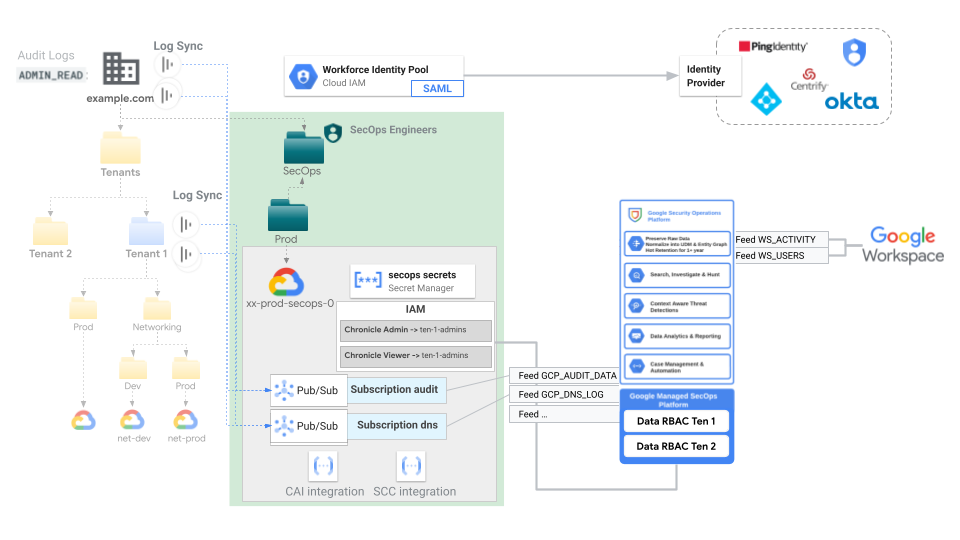
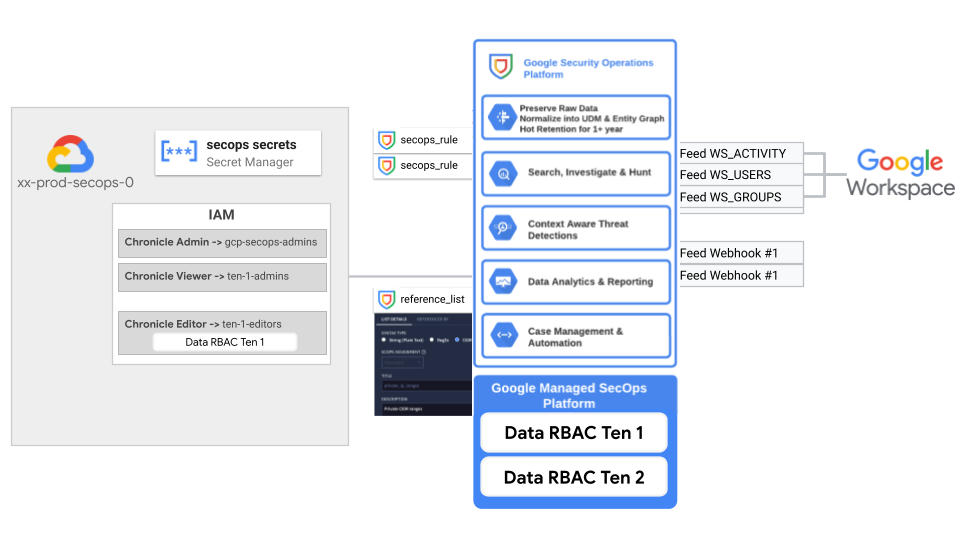
stage 3 improvements

diff --git a/fast/stages/3-secops-dev/README.md b/fast/stages/3-secops-dev/README.md
@@ -1,24 +1,24 @@
 # SecOps Stage
 
-This stage allows creation and management of a fleet of GKE multitenant clusters for a single environment, optionally leveraging GKE Hub to configure additional features.
+This stage allows automated configuration of SecOps instance at both infrastructure and application level.
 
-The following diagram illustrates the high-level design of secops tenant configuration in both GCP and SecOps instance, which can be adapted to specific requirements via variables.
+The following diagram illustrates the high-level design of SecOps instance configuration in both GCP and SecOps instance, which can be adapted to specific requirements via variables.
 
 <p align="center">
-  <img src="diagram.png" alt="GKE multitenant">
+  <img src="diagram.png" alt="SecOPs stage">
 </p>
 
 <!-- BEGIN TOC -->
 - [Design overview and choices](#design-overview-and-choices)
 - [How to run this stage](#how-to-run-this-stage)
-  - [Resource management configuration](#resource-management-configuration)
   - [Provider and Terraform variables](#provider-and-terraform-variables)
   - [Impersonating the automation service account](#impersonating-the-automation-service-account)
   - [Variable configuration](#variable-configuration)
   - [Running the stage](#running-the-stage)
 - [Customizations](#customizations)
-  - [Clusters and node pools](#clusters-and-node-pools)
-  - [Fleet management](#fleet-management)
+  - [Data RBAC](#data-rbac)
+  - [SecOps rules and reference list management](#secops-rules-and-reference-list-management)
+  - [Google Workspace integration](#google-workspace-integration)
 - [Files](#files)
 - [Variables](#variables)
 - [Outputs](#outputs)
@@ -26,35 +26,20 @@ The following diagram illustrates the high-level design of secops tenant configu
 
 ## Design overview and choices
 
-The general idea behind this stage is to deploy a single project hosting multiple clusters leveraging several useful GKE features like Config Sync, which lend themselves well to a multitenant approach to GKE.
+The general idea behind this stage is to configure a single SecOps instance for a specific environment with configurations both on SecOps leveraging terraform resources (where available) and `restful_resource` for interacting with the new [SecOps APIs](https://cloud.google.com/chronicle/docs/reference/rest).
 
-Some high level choices applied here:
+Some high level features of the current version of the stage are:
 
-- all clusters are created as [private clusters](https://cloud.google.com/kubernetes-engine/docs/how-to/private-clusters) which then need to be [VPC-native](https://cloud.google.com/kubernetes-engine/docs/concepts/alias-ips).
-- Logging and monitoring uses Cloud Operations for system components and user workloads.
-- [GKE metering](https://cloud.google.com/kubernetes-engine/docs/how-to/cluster-usage-metering) is enabled by default and stored in a BigQuery dataset created within the project.
-- [GKE Fleet](https://cloud.google.com/kubernetes-engine/docs/fleets-overview) can be optionally with support for the following features:
-  - [Fleet workload identity](https://cloud.google.com/anthos/fleet-management/docs/use-workload-identity)
-  - [Config Management](https://cloud.google.com/anthos-config-management/docs/overview)
-  - [Service Mesh](https://cloud.google.com/service-mesh/docs/overview)
-  - [Identity Service](https://cloud.google.com/anthos/identity/setup/fleet)
-  - [Multi-cluster services](https://cloud.google.com/kubernetes-engine/docs/concepts/multi-cluster-services)
-  - [Multi-cluster ingress](https://cloud.google.com/kubernetes-engine/docs/concepts/multi-cluster-ingress).
-- Support for [Config Sync](https://cloud.google.com/anthos-config-management/docs/config-sync-overview) and [Hierarchy Controller](https://cloud.google.com/anthos-config-management/docs/concepts/hierarchy-controller) when using Config Management.
-- [Groups for GKE](https://cloud.google.com/kubernetes-engine/docs/how-to/google-groups-rbac) can be enabled to facilitate the creation of flexible RBAC policies referencing group principals.
-- Support for [application layer secret encryption](https://cloud.google.com/kubernetes-engine/docs/how-to/encrypting-secrets).
-- Some features are enabled by default in all clusters:
-  - [Intranode visibility](https://cloud.google.com/kubernetes-engine/docs/how-to/intranode-visibility)
-  - [Dataplane v2](https://cloud.google.com/kubernetes-engine/docs/concepts/dataplane-v2)
-  - [Shielded GKE nodes](https://cloud.google.com/kubernetes-engine/docs/how-to/shielded-gke-nodes)
-  - [Workload identity](https://cloud.google.com/kubernetes-engine/docs/how-to/workload-identity)
-  - [Node local DNS cache](https://cloud.google.com/kubernetes-engine/docs/how-to/nodelocal-dns-cache)
-  - [Use of the GCE persistent disk CSI driver](https://cloud.google.com/kubernetes-engine/docs/how-to/persistent-volumes/gce-pd-csi-driver)
-  - Node [auto-upgrade](https://cloud.google.com/kubernetes-engine/docs/how-to/node-auto-upgrades) and [auto-repair](https://cloud.google.com/kubernetes-engine/docs/how-to/node-auto-repair) for all node pools
+- API/Services enablement
+- Data RBAC configuration with labels and scopes
+- IAM setup for the SecOps instance based on groups from Cloud Identity or WIF (with supports for Data RBAC)
+- Detection Rules and reference lists management via terraform (leveraging [secops-rules](../../../modules/secops-rules) module)
+- API Key setup for Webhook feeds 
+- Integration with Workspace for alerts and logs ingestion via SecOps Feeds
 
 ## How to run this stage
 
-This stage is meant to be executed after the FAST "foundational" stages: bootstrap, resource management, security and networking stages.
+This stage is meant to be executed after the FAST "foundational" stages: bootstrap, resource management, secops stages.
 
 It's of course possible to run this stage in isolation, refer to the *[Running in isolation](#running-in-isolation)* section below for details.
 
@@ -64,38 +49,19 @@ Before running this stage, you need to make sure you have the correct credential
 
 Some configuration changes are needed in resource management before this stage can be run.
 
-First, define a parent folder for each stage environment folder in the `data/top-level-folder` folder [in the resource management stage](../1-resman/data/top-level-folders/). As an example, this YAML definition creates a `GKE` folder under the organization:
+Make sure the stage 3 is enabled in the `data/stage-3` folder [in the resource management stage](../1-resman/data/stage-3/). As an example, this YAML definition saved as `secops-dev.yaml` enables this stage 3 for the development environment:
 
 ```yaml
-# yaml-language-server: $schema=../../schemas/top-level-folder.schema.json
+# yaml-language-server: $schema=../../schemas/fast-stage3.schema.json
 
-name: GKE
-
-# IAM bindings and organization policies can also be defined here
+short_name: secops
+environment: dev
+folder_config:
+  name: Development
+  parent_id: secops
 ```
 
-Then, edit the definition of the networking stage 2 in the `data/stage2` folder [in the resource management stage](../1-resman/data/stage-2/) to include the IAM configuration for GKE. The following are example snippets for GKE dev, make sure they match the `short_name` and `environment` configured above.
-
-In `folder_config.iam_bindings_additive` add:
-
-```yaml
-# folder_config:
-  # iam_bindings_additive:
-    gke_dns_admin:
-      role: roles/dns.admin
-      member: gke-dev-ro
-      condition:
-        title: GKE dev DNS admin.
-        expression: |
-          resource.matchTag('${organization.id}/${tag_names.environment}', 'development')
-    gke_dns_reader:
-      role: roles/dns.reader
-      member: gke-dev-ro
-      condition:
-        title: GKE dev DNS reader.
-        expression: |
-          resource.matchTag('${organization.id}/${tag_names.environment}', 'development')
-```
+Make sure the stage 3 definitions are aligned with the environments you would like to setup for SecOps and coherent with the environments definitions in the stage 2 [2-secops](../2-secops) in order to have a dedicated stage 3 for SecOps for each environment (dev and prod as an example).
 
 ### Provider and Terraform variables
 
@@ -109,16 +75,16 @@ The commands to link or copy the provider and terraform variable files can be ea
 # File linking commands for GKE (dev) stage
 
 # provider file
-ln -s ~/fast-config/providers/3-gke-dev-providers.tf ./
+ln -s ~/fast-config/providers/3-secops-dev-providers.tf ./
 
 # input files from other stages
 ln -s ~/fast-config/tfvars/0-globals.auto.tfvars.json ./
 ln -s ~/fast-config/tfvars/0-bootstrap.auto.tfvars.json ./
 ln -s ~/fast-config/tfvars/1-resman.auto.tfvars.json ./
-ln -s ~/fast-config/tfvars/2-networking.auto.tfvars.json ./
+ln -s ~/fast-config/tfvars/2-secops.auto.tfvars.json ./
 
 # conventional place for stage tfvars (manually created)
-ln -s ~/fast-config/3-gke-dev.auto.tfvars ./
+ln -s ~/fast-config/3-secops-dev.auto.tfvars ./
 ```
 
 ```bash
@@ -127,16 +93,16 @@ ln -s ~/fast-config/3-gke-dev.auto.tfvars ./
 # File linking commands for GKE (dev) stage
 
 # provider file
-gcloud storage cp gs://xxx-prod-iac-core-outputs-0/providers/3-gke-dev-providers.tf ./
+gcloud storage cp gs://xxx-prod-iac-core-outputs-0/providers/3-secops-dev-providers.tf ./
 
 # input files from other stages
 gcloud storage cp gs://xxx-prod-iac-core-outputs-0/tfvars/0-globals.auto.tfvars.json ./
 gcloud storage cp gs://xxx-prod-iac-core-outputs-0/tfvars/0-bootstrap.auto.tfvars.json ./
 gcloud storage cp gs://xxx-prod-iac-core-outputs-0/tfvars/1-resman.auto.tfvars.json ./
-gcloud storage cp gs://xxx-prod-iac-core-outputs-0/tfvars/2-networking.auto.tfvars.json ./
+gcloud storage cp gs://xxx-prod-iac-core-outputs-0/tfvars/2-secops.auto.tfvars.json ./
 
 # conventional place for stage tfvars (manually created)
-gcloud storage cp gs://xxx-prod-iac-core-outputs-0/3-gke-dev.auto.tfvars ./
+gcloud storage cp gs://xxx-prod-iac-core-outputs-0/3-secops-dev.auto.tfvars ./
 ```
 
 ### Impersonating the automation service account
@@ -164,52 +130,72 @@ terraform apply
 
 ## Customizations
 
-This stage is designed with multi-tenancy in mind, and the expectation is that  GKE clusters will mostly share a common set of defaults. Variables allow management of clusters, nodepools, and fleet registration and configurations.
+This stage is designed with few basic integrations provided out of the box which can be customized as per the following sections.
 
-### Clusters and node pools
+### Data RBAC
 
-This is an example of declaring a private cluster with one nodepool via `tfvars` file:
+This stage supports configuration of [SecOps Data RBAC](https://cloud.google.com/chronicle/docs/administration/datarbac-overview) using two separate variables:
+
+- `secops_data_rbac_config`: specifies Data RBAC [label and scopes](https://cloud.google.com/chronicle/docs/administration/configure-datarbac-users) in Google SecOps 
+- `secops_iam`: defines SecOps IAM configuration in {PRINCIPAL => {roles => [ROLES], scopes => [SCOPES]}} format referencing previously defined scopes. When scope is populated a [IAM condition](https://cloud.google.com/chronicle/docs/administration/configure-datarbac-users#assign-scope-to-users) restrict access to those scopes.
+
+Example of a Data RBAC configuration is reported below.
 
 ```hcl
-clusters = {
-  test-00 = {
-    description = "Cluster test 0"
-    location    = "europe-west8"
-    private_cluster_config = {
-      enable_private_endpoint = true
-      master_global_access    = true
+secops_data_rbac_config = {
+  labels = {
+    google = {
+      description = "Google logs"
+      label_id    = "google"
+      udm_query   = "principal.hostname=\"google.com\""
     }
-    vpc_config = {
-      subnetwork             = "projects/ldj-dev-net-spoke-0/regions/europe-west8/subnetworks/gke"
-      master_ipv4_cidr_block = "172.16.20.0/28"
-      master_authorized_ranges = {
-        private = "10.0.0.0/8"
-      }
+  }
+  scopes = {
+    google = {
+      description = "Google logs"
+      scope_id    = "gscope"
+      allowed_data_access_labels = [{
+        data_access_label = "google"
+      }]
     }
   }
 }
-nodepools = {
-  test-00 = {
-    00 = {
-      node_count = { initial = 1 }
-    }
+secops_iam = {
+  "user:bruzzechesse@google.com" = {
+    roles  = ["roles/chronicle.editor"]
+    scopes = ["gscope"]
   }
 }
 # tftest skip
 ```
 
-If clusters share similar configurations, those can be centralized via `locals` blocks in this stage's `main.tf` file, and merged in with clusters via a simple `for_each` loop.
+### SecOps rules and reference list management
 
-### Fleet management
+This stage leverages the [secops-rules](../../../modules/secops-rules) for automated SecOps rules and reference list deployment via Terraform.
 
-Fleet management is entirely optional, and uses two separate variables:
+By default, the stage will try to deploy sample rule and reference list available in the [rules](./data/rules) and [reference_lists](./data/reference_lists) folders according to the configuration files `secops_rules.yaml` and `secops_reference_lists.yaml`.
 
-- `fleet_config`: specifies the [GKE fleet](https://cloud.google.com/anthos/fleet-management/docs/fleet-concepts#fleet-enabled-components) features to activate
-- `fleet_configmanagement_templates`: defines configuration templates for specific sets of features ([Config Management](https://cloud.google.com/anthos-config-management/docs/how-to/install-anthos-config-management) currently)
+The configuration can be updated via the `factory_config` variable as per the `secops-rules` module [README.md](../../../modules/secops-rules/README.md).
 
-Clusters can then be configured for fleet registration and one of the config management templates attached via the cluster-level `fleet_config` attribute.
+### Google Workspace integration
 
-<!-- TFDOC OPTS files:1 show_extra:1 exclude:3-gke-dev-providers.tf -->
+The stage supports automatic integration of Google Workspace as a SecOps source leveraging [SecOps Feeds](https://cloud.google.com/chronicle/docs/ingestion/default-parsers/collect-workspace-logs#configure_a_feed_in_to_ingest_logs) integration.
+
+Integration is enabled via the `workspace_integration_config` variable as per the following sample:
+
+```hcl
+workspace_integration_config = {
+  delegated_user        = "secops-feed@..."
+  workspace_customer_id = "CXXXXXXX"
+}
+# tftest skip
+```
+
+Where `delegated_user` should be the email of the user created in Cloud Identity following the configuration instructions available [here](https://cloud.google.com/chronicle/docs/ingestion/default-parsers/collect-workspace-logs#configure_a_feed_in_to_ingest_logs).
+
+Please be aware the Service Account Client ID needed during domain wide delegation setup is available in the key of the service account stored in Secret Manager.
+
+<!-- TFDOC OPTS files:1 show_extra:1 exclude:3-secops-dev-providers.tf -->
 <!-- BEGIN TFDOC -->
 ## Files
 
@@ -229,16 +215,16 @@ Clusters can then be configured for fleet registration and one of the config man
 
 | name | description | type | required | default | producer |
 |---|---|:---:|:---:|:---:|:---:|
-| [secops_tenant_config](variables.tf#L54) | SecOps Tenant configuration. | <code title="object&#40;&#123;&#10;  customer_id &#61; string&#10;  region      &#61; string&#10;&#125;&#41;">object&#40;&#123;&#8230;&#125;&#41;</code> | ✓ |  |  |
-| [factories_config](variables.tf#L17) | Paths to  YAML config expected in 'rules' and 'reference_lists'. Path to folders containing rules definitions (yaral files) and reference lists content (txt files) for the corresponding _defs keys. | <code title="object&#40;&#123;&#10;  rules                &#61; optional&#40;string&#41;&#10;  rules_defs           &#61; optional&#40;string, &#34;data&#47;rules&#34;&#41;&#10;  reference_lists      &#61; optional&#40;string&#41;&#10;  reference_lists_defs &#61; optional&#40;string, &#34;data&#47;reference_lists&#34;&#41;&#10;&#125;&#41;">object&#40;&#123;&#8230;&#125;&#41;</code> |  | <code title="&#123;&#10;  rules                &#61; &#34;.&#47;data&#47;secops_rules.yaml&#34;&#10;  rules_defs           &#61; &#34;.&#47;data&#47;rules&#34;&#10;  reference_lists      &#61; &#34;.&#47;data&#47;secops_reference_lists.yaml&#34;&#10;  reference_lists_defs &#61; &#34;.&#47;data&#47;reference_lists&#34;&#10;&#125;">&#123;&#8230;&#125;</code> |  |
-| [project_id](variables.tf#L108) | Project id that references existing SecOps project. Use this variable when running this stage in isolation. | <code>string</code> |  | <code>null</code> |  |
-| [regions](variables.tf#L114) | Region definitions. | <code title="object&#40;&#123;&#10;  primary   &#61; string&#10;  secondary &#61; string&#10;&#125;&#41;">object&#40;&#123;&#8230;&#125;&#41;</code> |  | <code title="&#123;&#10;  primary   &#61; &#34;europe-west8&#34;&#10;  secondary &#61; &#34;europe-west1&#34;&#10;&#125;">&#123;&#8230;&#125;</code> |  |
-| [secops_data_rbac_config](variables.tf#L62) | SecOps Data RBAC scope and labels config. | <code title="object&#40;&#123;&#10;  labels &#61; optional&#40;map&#40;object&#40;&#123;&#10;    description &#61; string&#10;    label_id    &#61; string&#10;    udm_query   &#61; string&#10;  &#125;&#41;&#41;&#41;&#10;  scopes &#61; optional&#40;map&#40;object&#40;&#123;&#10;    description &#61; string&#10;    scope_id    &#61; string&#10;    allowed_data_access_labels &#61; optional&#40;list&#40;object&#40;&#123;&#10;      data_access_label &#61; optional&#40;string&#41;&#10;      log_type          &#61; optional&#40;string&#41;&#10;      asset_namespace   &#61; optional&#40;string&#41;&#10;      ingestion_label &#61; optional&#40;object&#40;&#123;&#10;        ingestion_label_key   &#61; string&#10;        ingestion_label_value &#61; optional&#40;string&#41;&#10;      &#125;&#41;&#41;&#10;    &#125;&#41;&#41;, &#91;&#93;&#41;&#10;    denied_data_access_labels &#61; optional&#40;list&#40;object&#40;&#123;&#10;      data_access_label &#61; optional&#40;string&#41;&#10;      log_type          &#61; optional&#40;string&#41;&#10;      asset_namespace   &#61; optional&#40;string&#41;&#10;      ingestion_label &#61; optional&#40;object&#40;&#123;&#10;        ingestion_label_key   &#61; string&#10;        ingestion_label_value &#61; optional&#40;string&#41;&#10;      &#125;&#41;&#41;&#10;    &#125;&#41;&#41;, &#91;&#93;&#41;&#10;  &#125;&#41;&#41;&#41;&#10;&#125;&#41;">object&#40;&#123;&#8230;&#125;&#41;</code> |  | <code>&#123;&#125;</code> |  |
-| [secops_group_principals](variables.tf#L34) | Groups ID in IdP assigned to SecOps admins, editors, viewers roles. | <code title="object&#40;&#123;&#10;  admins  &#61; optional&#40;list&#40;string&#41;, &#91;&#93;&#41;&#10;  editors &#61; optional&#40;list&#40;string&#41;, &#91;&#93;&#41;&#10;  viewers &#61; optional&#40;list&#40;string&#41;, &#91;&#93;&#41;&#10;&#125;&#41;">object&#40;&#123;&#8230;&#125;&#41;</code> |  | <code>&#123;&#125;</code> |  |
-| [secops_iam](variables.tf#L44) | SecOps IAM configuration in {PRINCIPAL => {roles => [ROLES], scopes => [SCOPES]}} format. | <code title="map&#40;object&#40;&#123;&#10;  roles  &#61; list&#40;string&#41;&#10;  scopes &#61; optional&#40;list&#40;string&#41;&#41;&#10;&#125;&#41;&#41;">map&#40;object&#40;&#123;&#8230;&#125;&#41;&#41;</code> |  | <code>&#123;&#125;</code> |  |
+| [tenant_config](variables.tf#L112) | SecOps Tenant configuration. | <code title="object&#40;&#123;&#10;  customer_id &#61; string&#10;  region      &#61; string&#10;&#125;&#41;">object&#40;&#123;&#8230;&#125;&#41;</code> | ✓ |  |  |
+| [data_rbac_config](variables.tf#L17) | SecOps Data RBAC scope and labels config. | <code title="object&#40;&#123;&#10;  labels &#61; optional&#40;map&#40;object&#40;&#123;&#10;    description &#61; string&#10;    label_id    &#61; string&#10;    udm_query   &#61; string&#10;  &#125;&#41;&#41;&#41;&#10;  scopes &#61; optional&#40;map&#40;object&#40;&#123;&#10;    description &#61; string&#10;    scope_id    &#61; string&#10;    allowed_data_access_labels &#61; optional&#40;list&#40;object&#40;&#123;&#10;      data_access_label &#61; optional&#40;string&#41;&#10;      log_type          &#61; optional&#40;string&#41;&#10;      asset_namespace   &#61; optional&#40;string&#41;&#10;      ingestion_label &#61; optional&#40;object&#40;&#123;&#10;        ingestion_label_key   &#61; string&#10;        ingestion_label_value &#61; optional&#40;string&#41;&#10;      &#125;&#41;&#41;&#10;    &#125;&#41;&#41;, &#91;&#93;&#41;&#10;    denied_data_access_labels &#61; optional&#40;list&#40;object&#40;&#123;&#10;      data_access_label &#61; optional&#40;string&#41;&#10;      log_type          &#61; optional&#40;string&#41;&#10;      asset_namespace   &#61; optional&#40;string&#41;&#10;      ingestion_label &#61; optional&#40;object&#40;&#123;&#10;        ingestion_label_key   &#61; string&#10;        ingestion_label_value &#61; optional&#40;string&#41;&#10;      &#125;&#41;&#41;&#10;    &#125;&#41;&#41;, &#91;&#93;&#41;&#10;  &#125;&#41;&#41;&#41;&#10;&#125;&#41;">object&#40;&#123;&#8230;&#125;&#41;</code> |  | <code>&#123;&#125;</code> |  |
+| [factories_config](variables.tf#L51) | Paths to  YAML config expected in 'rules' and 'reference_lists'. Path to folders containing rules definitions (yaral files) and reference lists content (txt files) for the corresponding _defs keys. | <code title="object&#40;&#123;&#10;  rules                &#61; optional&#40;string&#41;&#10;  rules_defs           &#61; optional&#40;string, &#34;data&#47;rules&#34;&#41;&#10;  reference_lists      &#61; optional&#40;string&#41;&#10;  reference_lists_defs &#61; optional&#40;string, &#34;data&#47;reference_lists&#34;&#41;&#10;&#125;&#41;">object&#40;&#123;&#8230;&#125;&#41;</code> |  | <code title="&#123;&#10;  rules                &#61; &#34;.&#47;data&#47;secops_rules.yaml&#34;&#10;  rules_defs           &#61; &#34;.&#47;data&#47;rules&#34;&#10;  reference_lists      &#61; &#34;.&#47;data&#47;secops_reference_lists.yaml&#34;&#10;  reference_lists_defs &#61; &#34;.&#47;data&#47;reference_lists&#34;&#10;&#125;">&#123;&#8230;&#125;</code> |  |
+| [iam](variables.tf#L68) | SecOps IAM configuration in {PRINCIPAL => {roles => [ROLES], scopes => [SCOPES]}} format. | <code title="map&#40;object&#40;&#123;&#10;  roles  &#61; list&#40;string&#41;&#10;  scopes &#61; optional&#40;list&#40;string&#41;&#41;&#10;&#125;&#41;&#41;">map&#40;object&#40;&#123;&#8230;&#125;&#41;&#41;</code> |  | <code>&#123;&#125;</code> |  |
+| [iam_default](variables.tf#L78) | Groups ID in IdP assigned to SecOps admins, editors, viewers roles. | <code title="object&#40;&#123;&#10;  admins  &#61; optional&#40;list&#40;string&#41;, &#91;&#93;&#41;&#10;  editors &#61; optional&#40;list&#40;string&#41;, &#91;&#93;&#41;&#10;  viewers &#61; optional&#40;list&#40;string&#41;, &#91;&#93;&#41;&#10;&#125;&#41;">object&#40;&#123;&#8230;&#125;&#41;</code> |  | <code>&#123;&#125;</code> |  |
+| [project_id](variables.tf#L88) | Project id that references existing SecOps project. Use this variable when running this stage in isolation. | <code>string</code> |  | <code>null</code> |  |
+| [region](variables.tf#L94) | Google Cloud region definition for resources. | <code>string</code> |  | <code>&#34;europe-west8&#34;</code> |  |
 | [secops_project_ids](variables-fast.tf#L17) | SecOps Project IDs for each environment. | <code>map&#40;string&#41;</code> |  | <code>null</code> | <code>2-secops</code> |
-| [stage](variables.tf#L96) | FAST stage configuration used to find resource ids. Must match name defined for the stage in resource management. | <code title="object&#40;&#123;&#10;  environment &#61; string&#10;  name        &#61; string&#10;&#125;&#41;">object&#40;&#123;&#8230;&#125;&#41;</code> |  | <code title="&#123;&#10;  environment &#61; &#34;dev&#34;&#10;  name        &#61; &#34;secops-dev&#34;&#10;&#125;">&#123;&#8230;&#125;</code> |  |
-| [workspace_integration_config](variables.tf#L126) | SecOps Feeds configuration for Workspace logs and entities ingestion. | <code title="object&#40;&#123;&#10;  workspace_customer_id &#61; string&#10;  delegated_user        &#61; string&#10;  applications &#61; optional&#40;list&#40;string&#41;, &#91;&#34;access_transparency&#34;, &#34;admin&#34;, &#34;calendar&#34;, &#34;chat&#34;, &#34;drive&#34;, &#34;gcp&#34;,&#10;    &#34;gplus&#34;, &#34;groups&#34;, &#34;groups_enterprise&#34;, &#34;jamboard&#34;, &#34;login&#34;, &#34;meet&#34;, &#34;mobile&#34;, &#34;rules&#34;, &#34;saml&#34;, &#34;token&#34;,&#10;    &#34;user_accounts&#34;, &#34;context_aware_access&#34;, &#34;chrome&#34;, &#34;data_studio&#34;, &#34;keep&#34;,&#10;  &#93;&#41;&#10;&#125;&#41;">object&#40;&#123;&#8230;&#125;&#41;</code> |  | <code>null</code> |  |
+| [stage_config](variables.tf#L100) | FAST stage configuration used to find resource ids. Must match name defined for the stage in resource management. | <code title="object&#40;&#123;&#10;  environment &#61; string&#10;  name        &#61; string&#10;&#125;&#41;">object&#40;&#123;&#8230;&#125;&#41;</code> |  | <code title="&#123;&#10;  environment &#61; &#34;dev&#34;&#10;  name        &#61; &#34;secops-dev&#34;&#10;&#125;">&#123;&#8230;&#125;</code> |  |
+| [workspace_integration_config](variables.tf#L120) | SecOps Feeds configuration for Workspace logs and entities ingestion. | <code title="object&#40;&#123;&#10;  workspace_customer_id &#61; string&#10;  delegated_user        &#61; string&#10;  applications &#61; optional&#40;list&#40;string&#41;, &#91;&#34;access_transparency&#34;, &#34;admin&#34;, &#34;calendar&#34;, &#34;chat&#34;, &#34;drive&#34;, &#34;gcp&#34;,&#10;    &#34;gplus&#34;, &#34;groups&#34;, &#34;groups_enterprise&#34;, &#34;jamboard&#34;, &#34;login&#34;, &#34;meet&#34;, &#34;mobile&#34;, &#34;rules&#34;, &#34;saml&#34;, &#34;token&#34;,&#10;    &#34;user_accounts&#34;, &#34;context_aware_access&#34;, &#34;chrome&#34;, &#34;data_studio&#34;, &#34;keep&#34;,&#10;  &#93;&#41;&#10;&#125;&#41;">object&#40;&#123;&#8230;&#125;&#41;</code> |  | <code>null</code> |  |
 
 ## Outputs
 
